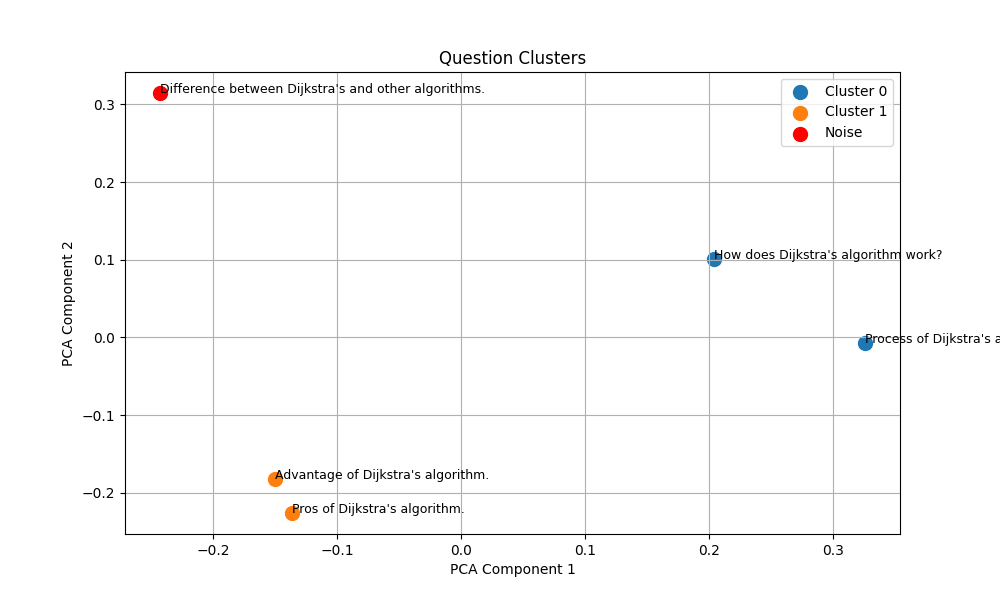
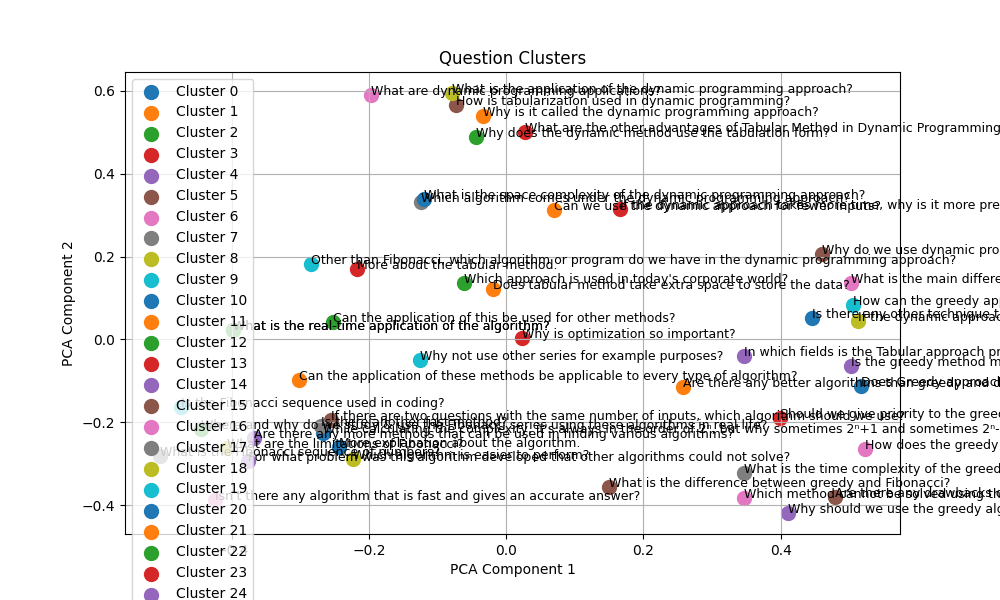
Removed the plot GUI

diff --git a/app.py b/app.py
@@ -6,6 +6,9 @@ from sklearn.metrics.pairwise import cosine_similarity, pairwise_distances
 import matplotlib.pyplot as plt
 from sklearn.decomposition import PCA
 
+# Set the matplotlib backend to 'Agg' to avoid GUI issues
+plt.switch_backend('Agg')
+
 app = Flask(__name__)
 
 # Load the Sentence-BERT model
@@ -26,7 +29,7 @@ def cluster_questions():
     distance_matrix = 1 - cosine_sim_matrix
 
     # Apply DBSCAN
-    dbscan = DBSCAN(eps=0.2, min_samples=2)  # Adjust eps according to your data
+    dbscan = DBSCAN(eps=0.3, min_samples=1)  # Adjust eps according to your data
     clusters = dbscan.fit_predict(distance_matrix)
 
     # Prepare response
